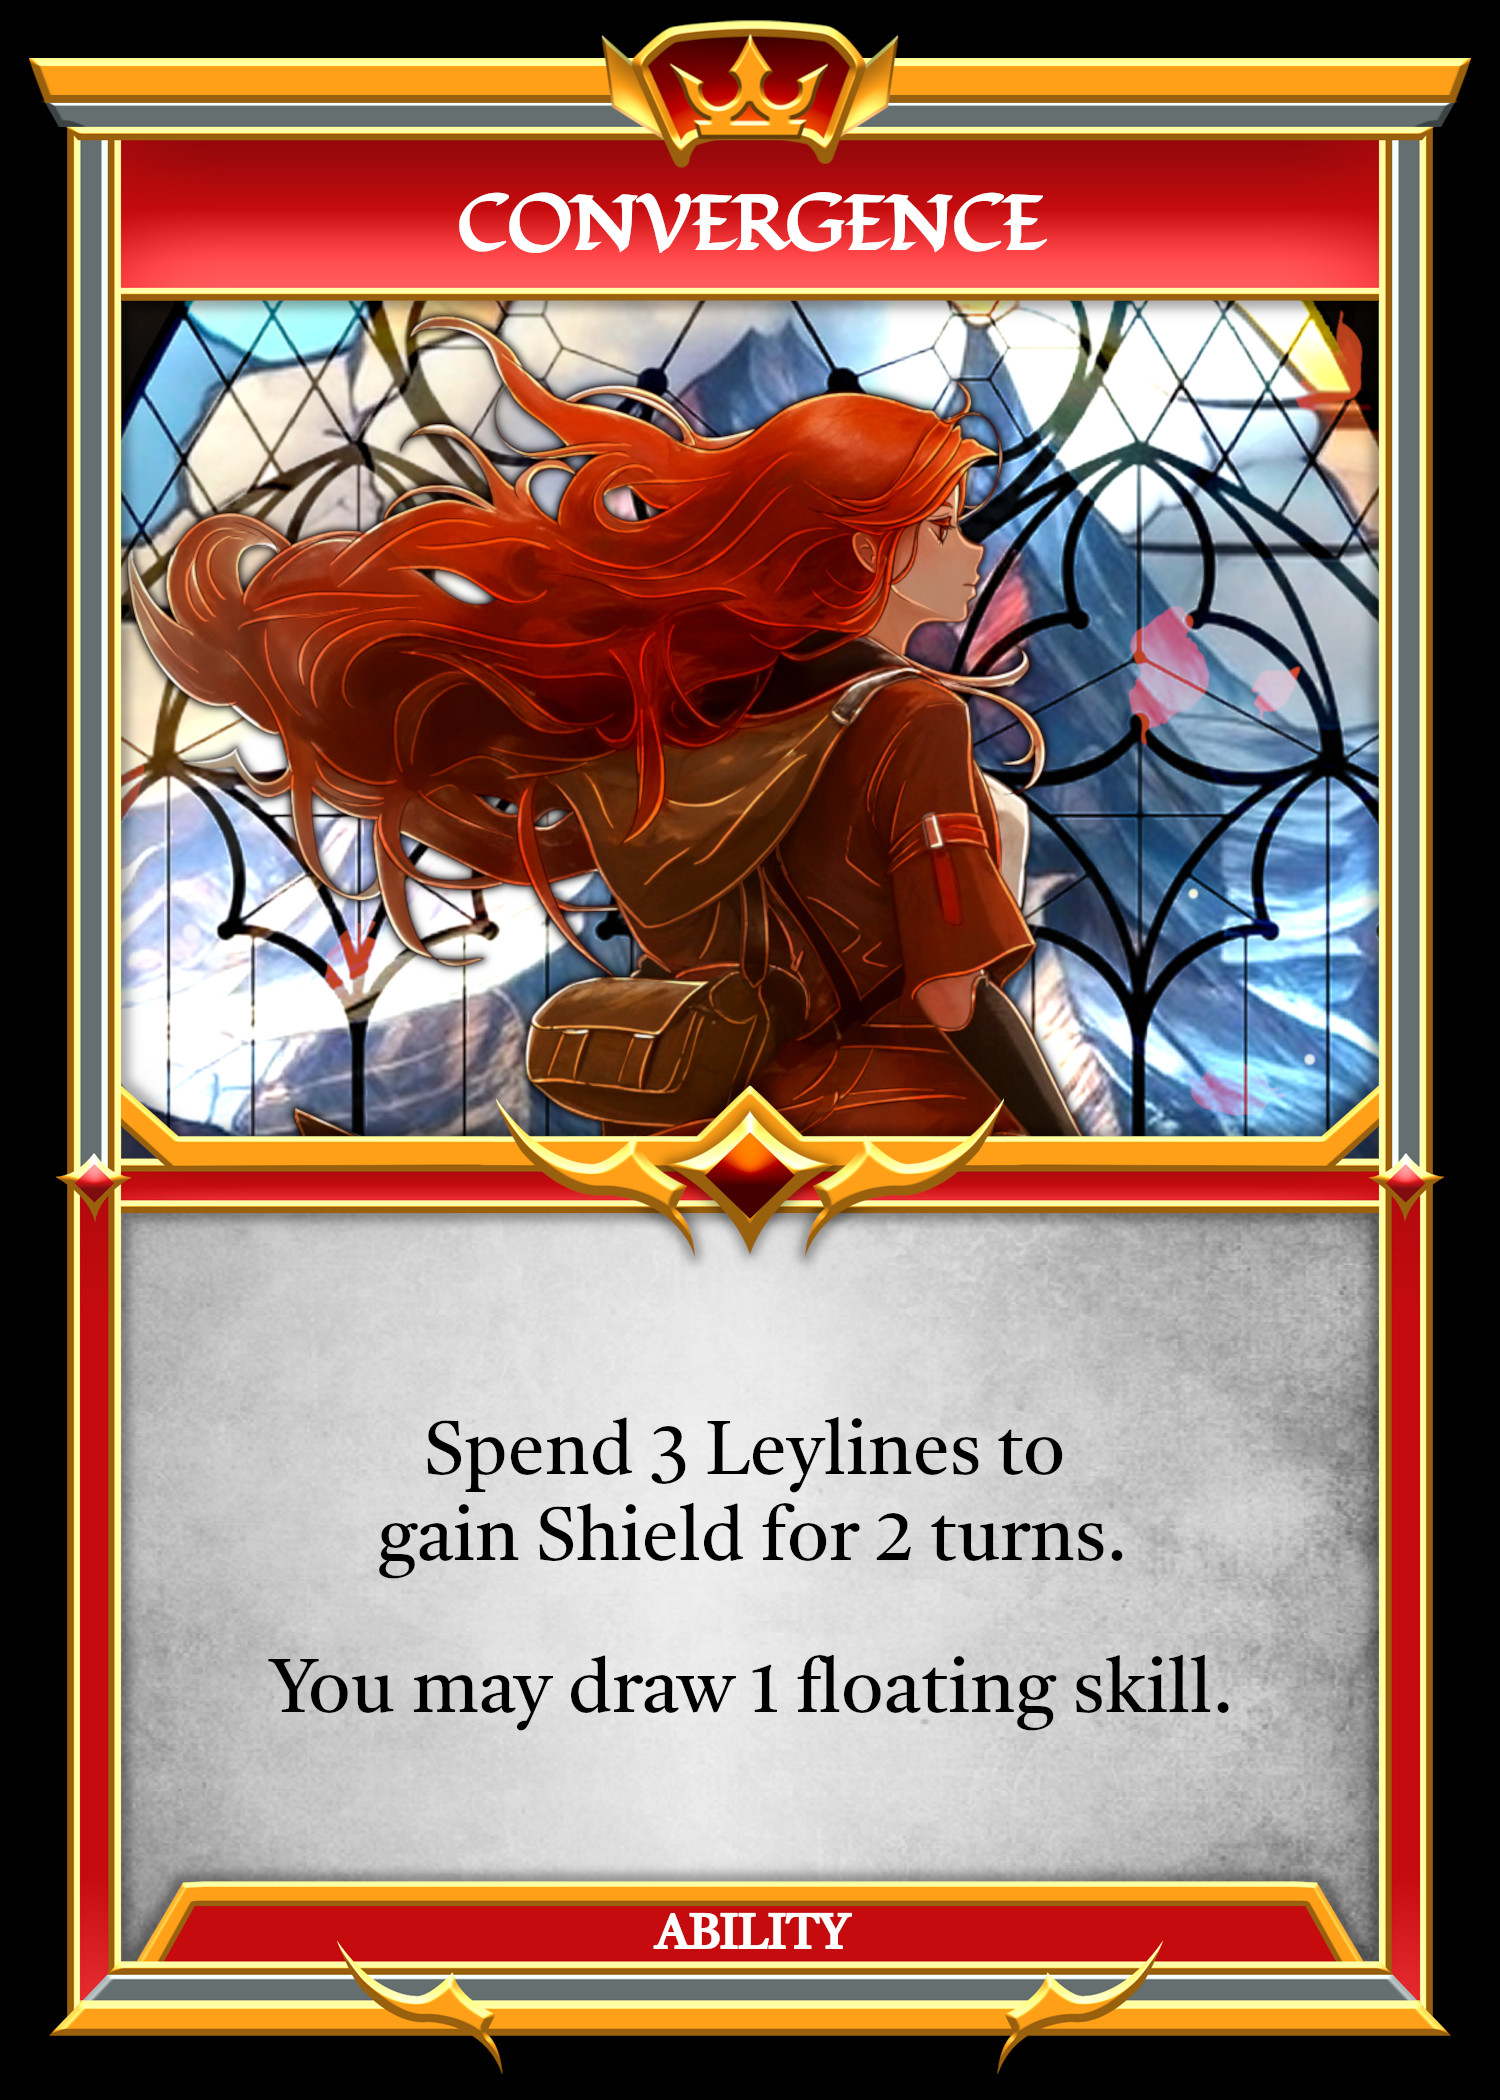
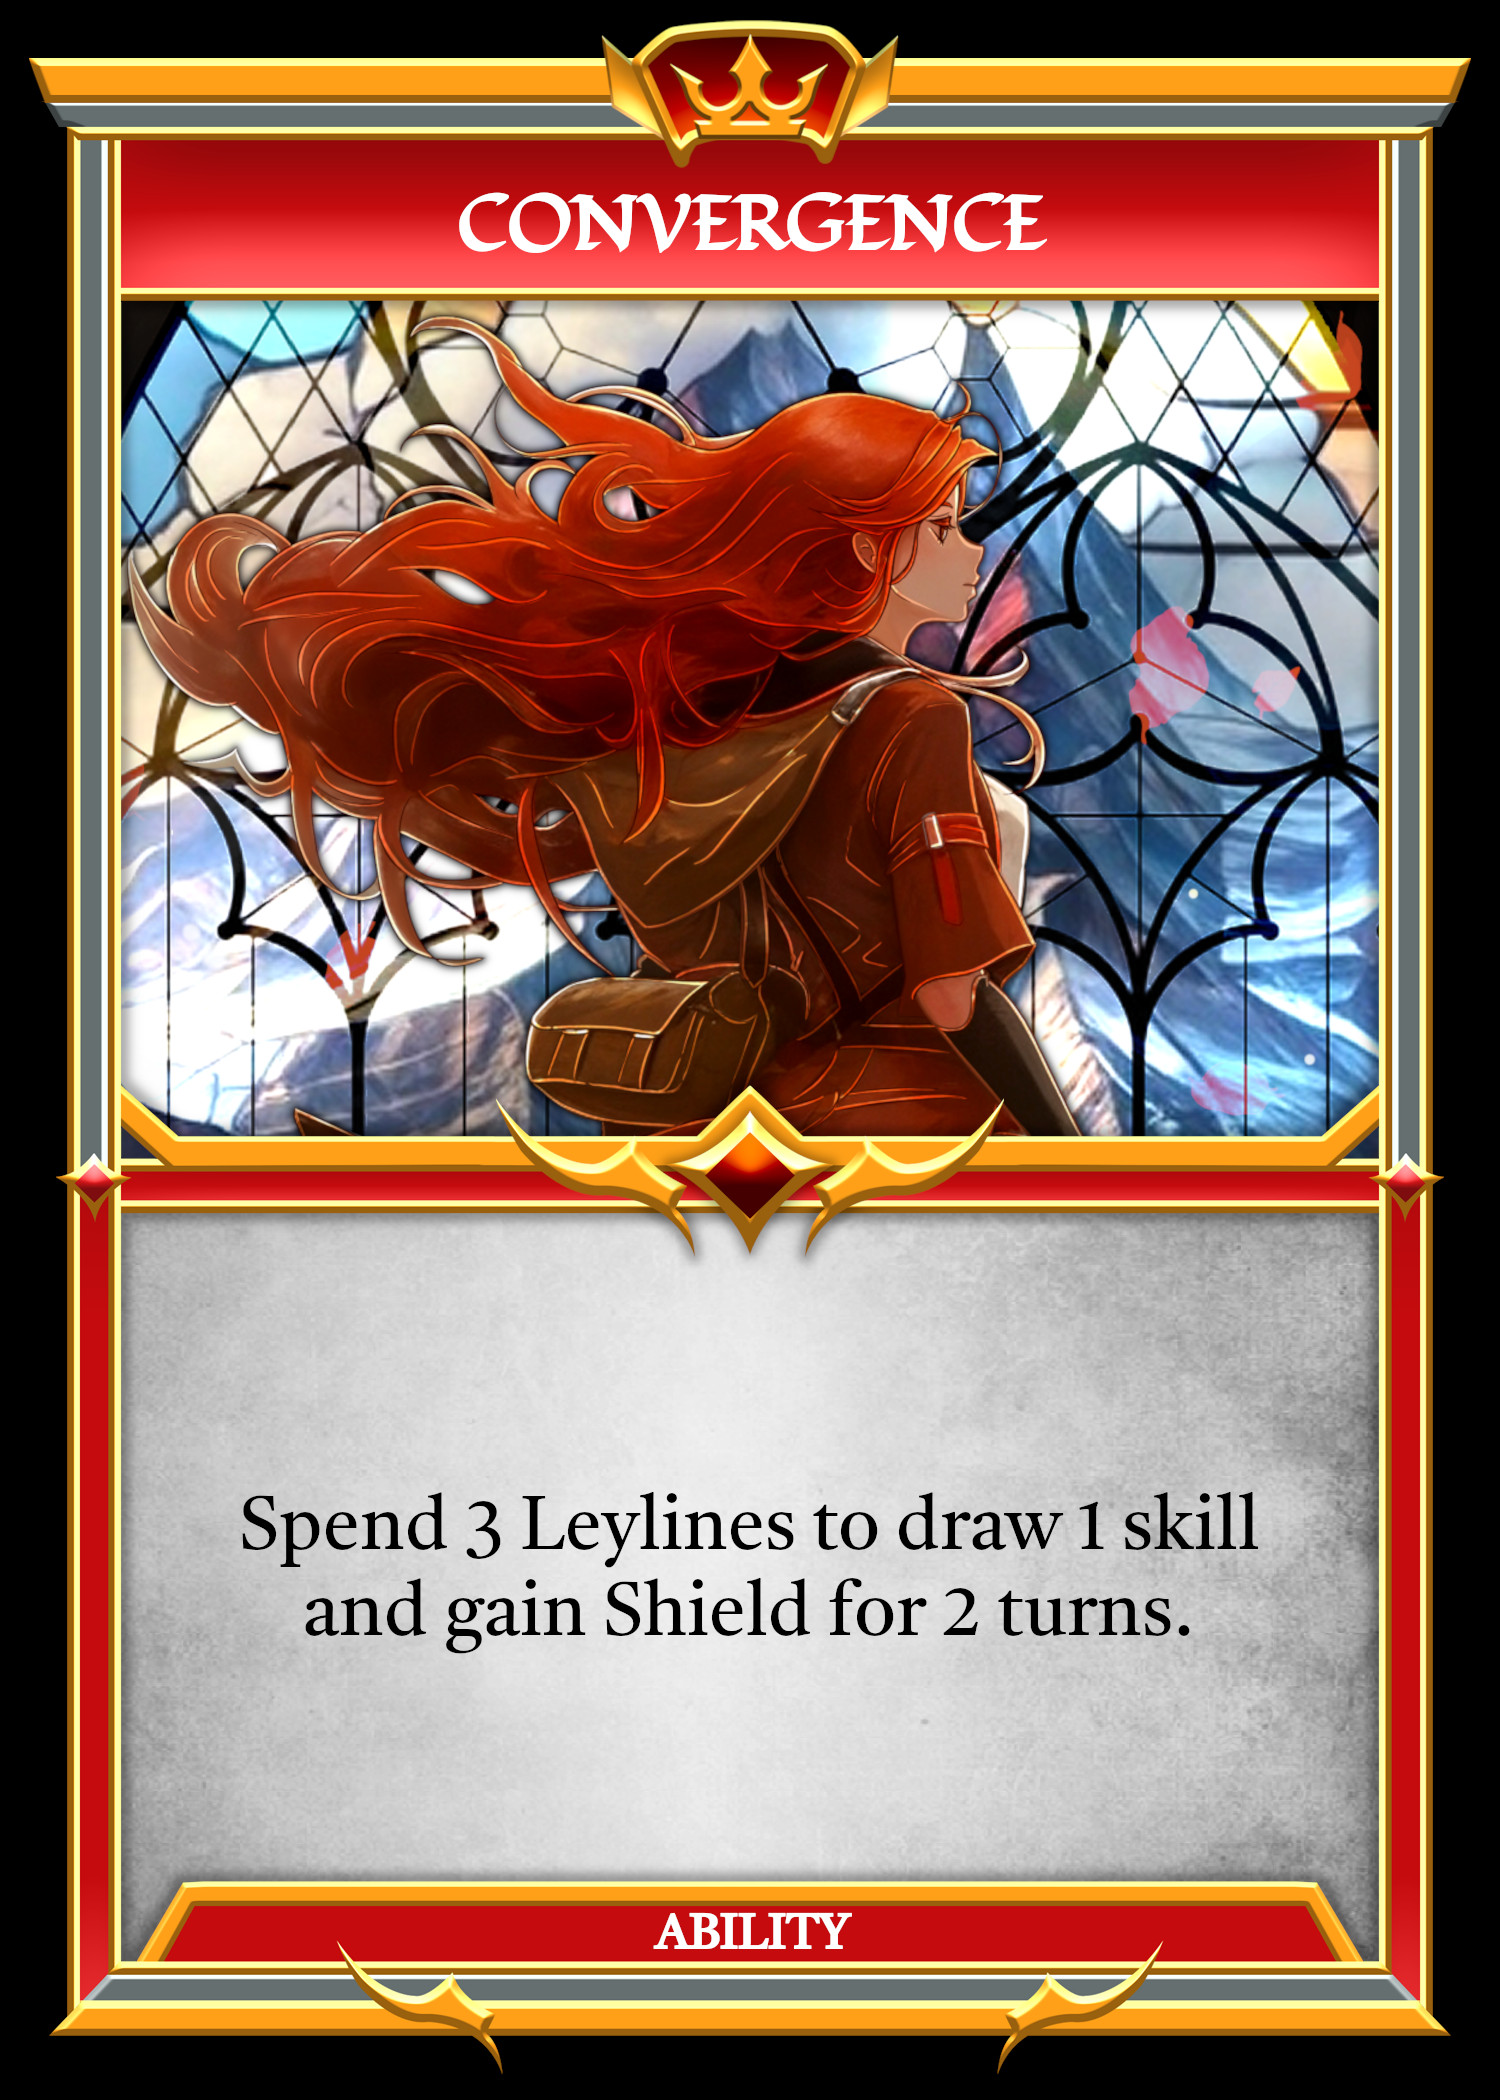
buffed amplify aura and convergence

Changed region(s): [[0.1533, 0.681, 0.8587, 0.8357]]

diff --git a/src/hooks/useUnitAbilityEffects.jsx b/src/hooks/useUnitAbilityEffects.jsx
@@ -12,6 +12,7 @@ export const useUnitAbilityEffects = () => {
     animationDelay,
     canMove,
     canStrike,
+    drawSkill,
     enterSelectUnitMode,
     getZonesAerialImpetusAlly,
     getZonesWithAllies,
@@ -309,21 +310,7 @@ export const useUnitAbilityEffects = () => {
     //Gain Shield
     unit.enhancements.shield = 2;
 
-    if (newGameState[unit.player].skillFloat > 0) {
-      newGameState.currentResolution.push({
-        resolution: "Unit Ability",
-        resolution2: "Convergence1",
-        player: self,
-        unit: unit,
-        details: {
-          reason: "Convergence",
-          title: "Convergence",
-          message: "You may draw 1 floating skill.",
-          no: "Skip",
-          yes: "Draw",
-        },
-      });
-    }
+    newGameState = drawSkill(newGameState);
 
     return newGameState;
   };
@@ -369,7 +356,7 @@ export const useUnitAbilityEffects = () => {
 
     unit.temporary.usedAbility = true;
 
-    if (unit.ambiance === 3) {
+    if (unit.ambiance >= 2) {
       newGameState.currentResolution.push({
         resolution: "Unit Ability",
         resolution2: "Amplify Aura1",
@@ -429,7 +416,7 @@ export const useUnitAbilityEffects = () => {
         details: {
           reason: "Amplify Aura",
           title: "Amplify Aura",
-          message: "You may spend 3 Ambiances to recover 1 Mana skill.",
+          message: "You may spend 2 Ambiances to recover 1 Mana skill.",
           no: "Skip",
           yes: "Recover",
         },

diff --git a/src/components/modals/UnitInfo.jsx b/src/components/modals/UnitInfo.jsx
@@ -98,11 +98,8 @@ const UnitInfo = (props) => {
         return (
           <>
             <p className="unitInfo-text-heading2">Convergence</p>
-            <p className="unitInfo-text-desc">
-              ⬩Spend 3 Leylines to gain Shield for 2 turns.
-            </p>
             <p className="unitInfo-text-desc unitInfo-text-last">
-              ⬩You may draw 1 floating skill.
+              ⬩Spend 3 Leylines to draw 1 skill and gain Shield for 2 turns.
             </p>
           </>
         );
@@ -135,7 +132,7 @@ const UnitInfo = (props) => {
               turns.
             </p>
             <p className="unitInfo-text-desc unitInfo-text-last">
-              ⬩You may spend 3 Ambiances to recover 1 Mana skill.
+              ⬩You may spend 2 Ambiances to recover 1 Mana skill.
             </p>
           </>
         );

diff --git a/src/components/modals/SelectUnitAbility.jsx b/src/components/modals/SelectUnitAbility.jsx
@@ -129,8 +129,9 @@ const SelectUnitAbility = (props) => {
           abilityQualifier: <></>,
           optionText: (
             <>
-              <div>⬩Spend 3 Leylines to gain Shield for 2 turns.</div>
-              <div>⬩You may draw 1 floating skill.</div>
+              <div>
+                ⬩Spend 3 Leylines to draw 1 skill and gain Shield for 2 turns.
+              </div>
             </>
           ),
         },
@@ -171,7 +172,7 @@ const SelectUnitAbility = (props) => {
                 ⬩Convert your or an adjacent ally’s Aether into Shield for 2
                 turns.
               </div>
-              <div>⬩You may spend 3 Ambiances to recover 1 Mana skill.</div>
+              <div>⬩You may spend 2 Ambiances to recover 1 Mana skill.</div>
             </>
           ),
         },

diff --git a/src/components/modals/YouMayNoYes.jsx b/src/components/modals/YouMayNoYes.jsx
@@ -226,10 +226,6 @@ const YouMayNoYes = (props) => {
         );
         break;
 
-      case "Convergence": // "Convergence1"
-        newGameState = drawSkill(newGameState);
-        break;
-
       case "Chain Lightning Blast": // "Chain Lightning3"
         unit.charge -= 1;
         newGameState.currentResolution.push({
@@ -350,7 +346,7 @@ const YouMayNoYes = (props) => {
         break;
 
       case "Amplify Aura":
-        unit.ambiance = 0;
+        unit.ambiance -= 2;
 
         newGameState.currentResolution.push({
           resolution: "Recover Skill",

diff --git a/src/hooks/UseCurrentResolution.jsx b/src/hooks/UseCurrentResolution.jsx
@@ -1174,7 +1174,6 @@ const UseCurrentResolution = (props) => {
           }
           break;
 
-        case "Convergence1":
         case "Galvanize2":
         case "Amplify Aura2":
           return (
